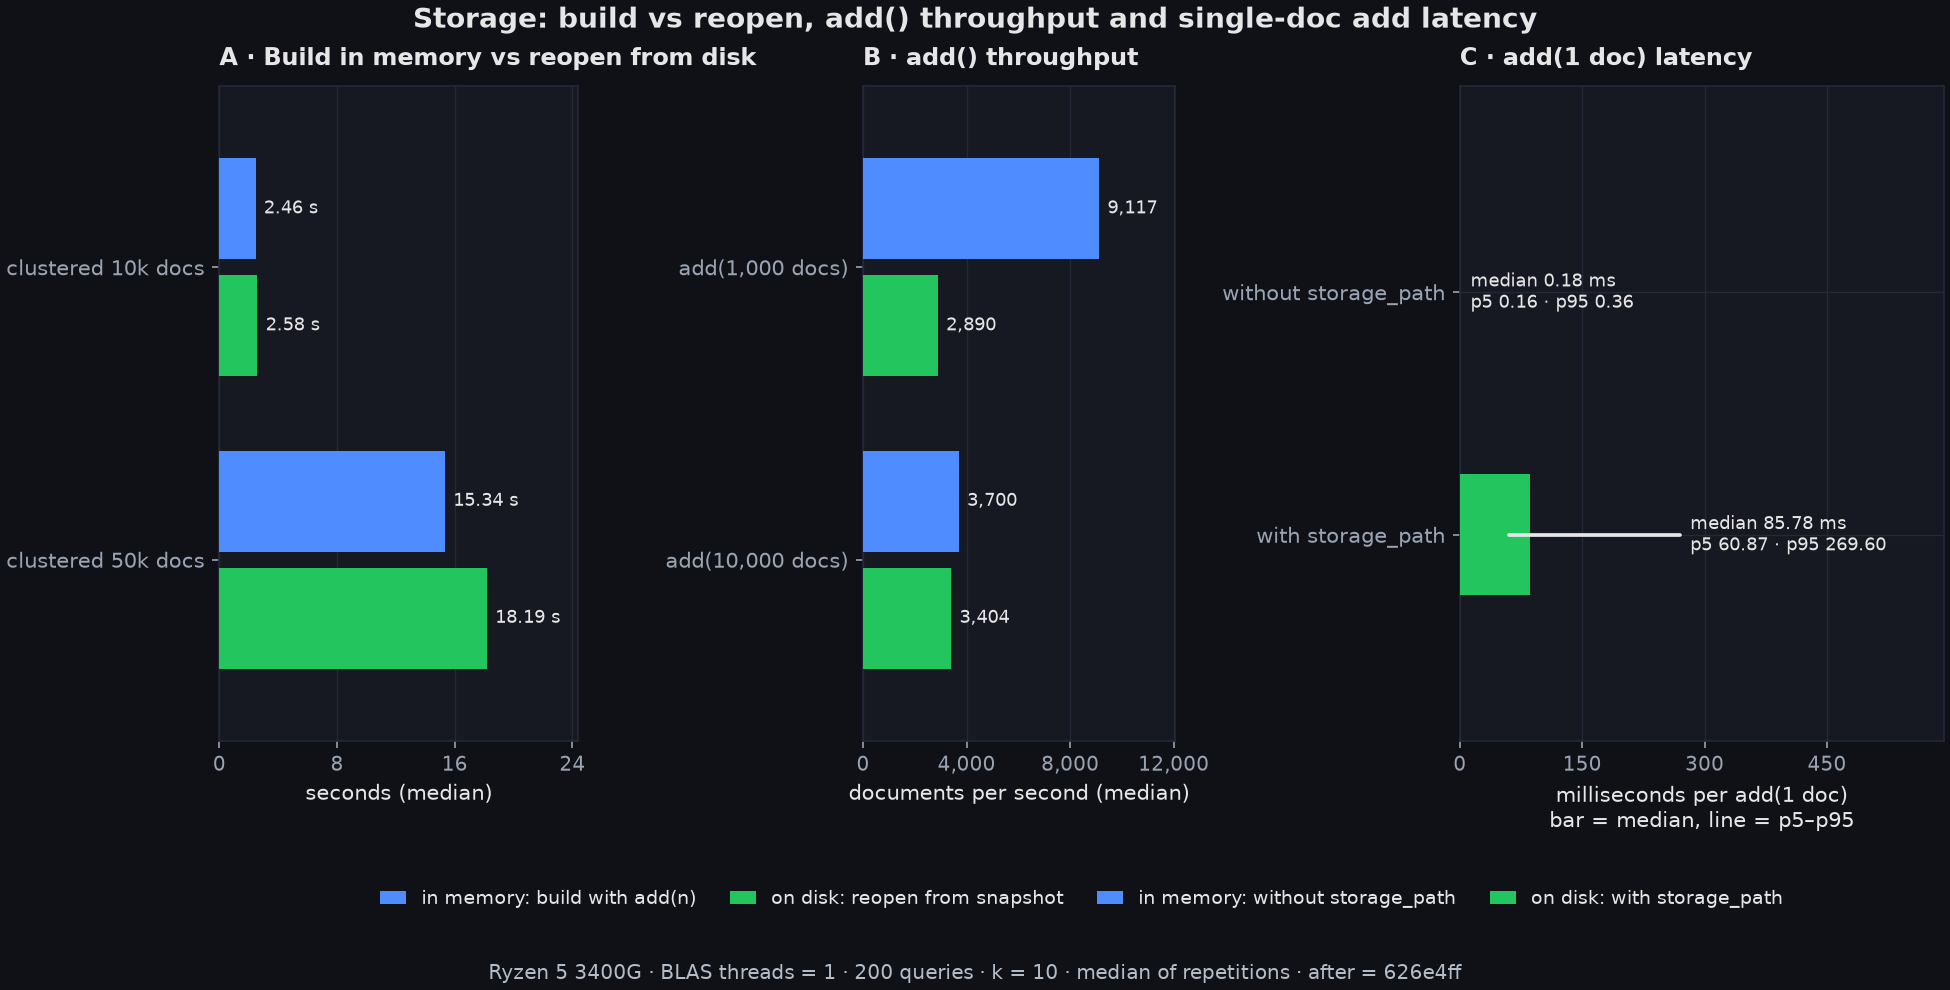
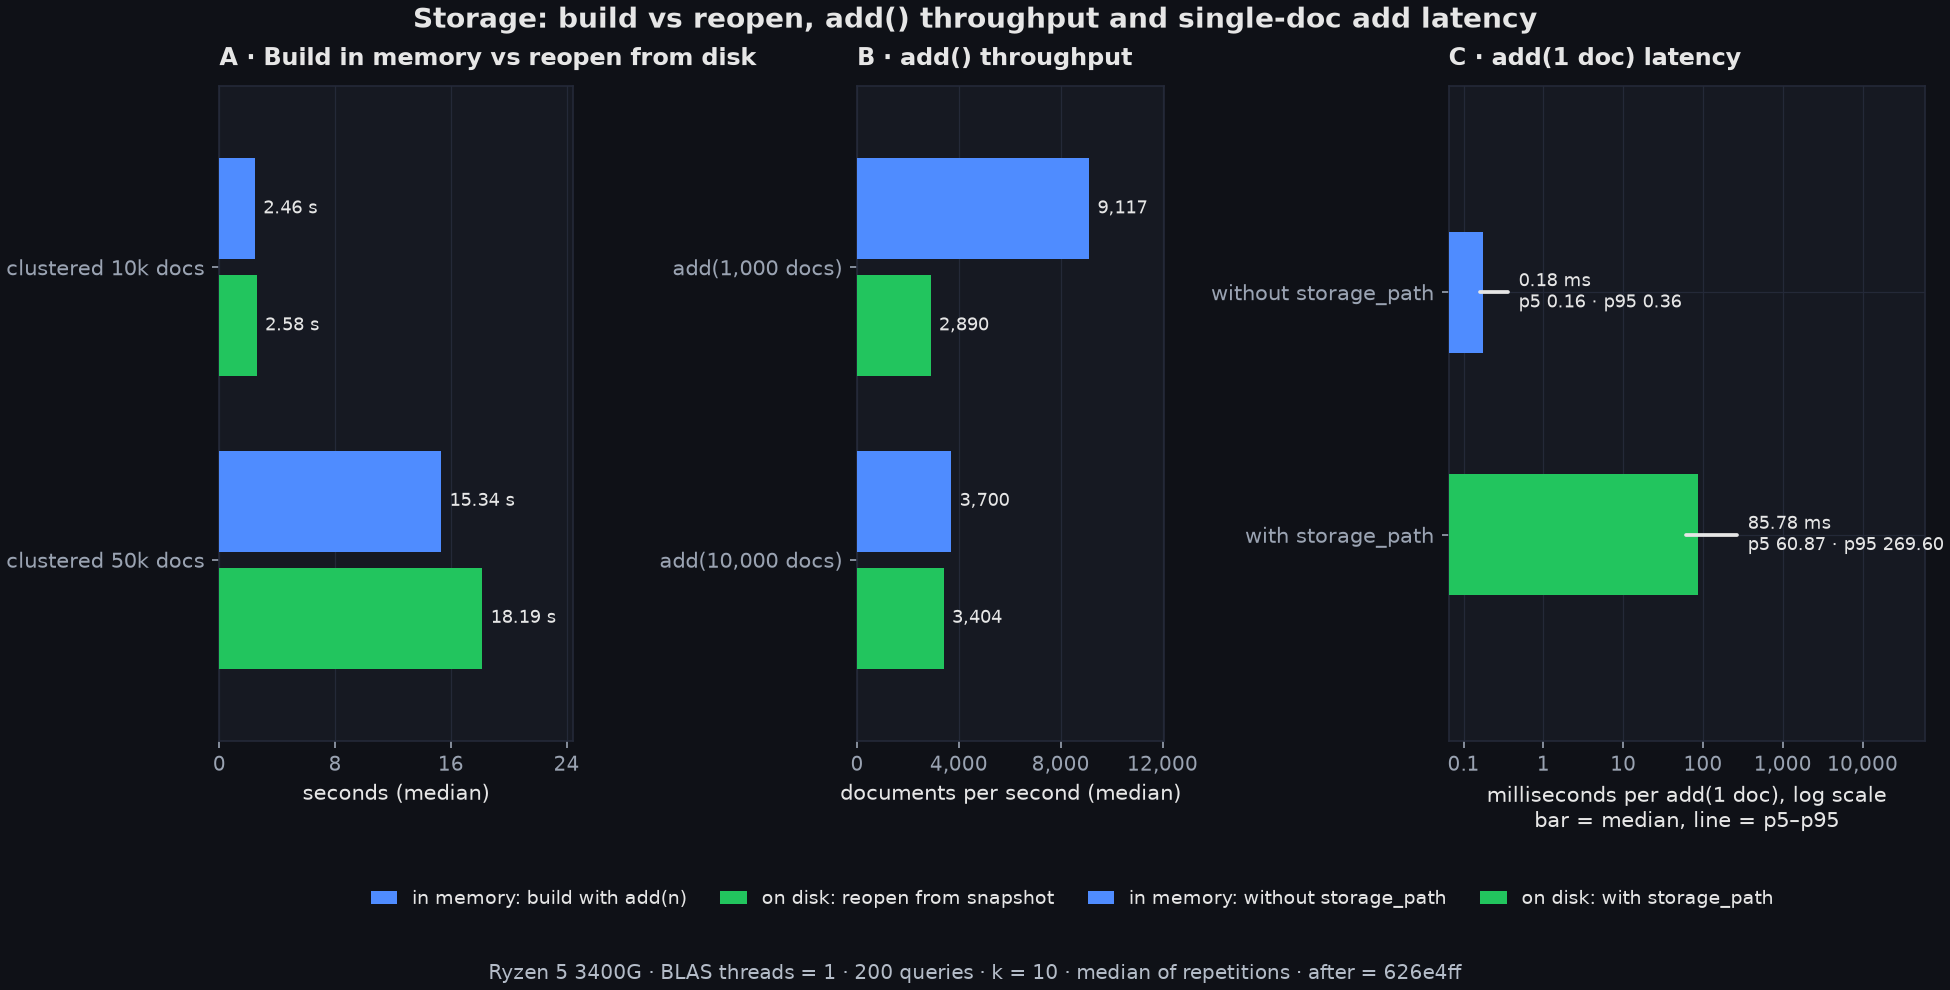
bench(figuras): panel C de bench-storage en escala log, verificacion visual de las 5 figuras [cierre del pase]
En escala lineal la barra de add(1 doc) sin storage_path (0.18 ms) quedaba
invisible frente a 86 ms, y su entrada de leyenda no tenia marca visible. El
panel C pasa a eje log con ticks 0.1 ... 10,000 (comas en los miles) y la
anotacion se acorta ('85.78 ms'; la etiqueta del eje ya dice que la barra es la
mediana). Las otras 4 figuras son byte-identicas (sha256 verificado) y el
generador sigue pasando su checker (0 colisiones, 0 textos fuera, determinista,
sin literales de cifras).

Verificacion visual (vision) de las 5 figuras: todos los textos y valores se
pueden transcribir sin ambiguedad y coinciden con los JSON.

diff --git a/scripts/make_readme_figures.py b/scripts/make_readme_figures.py
@@ -856,16 +856,25 @@ def fig_storage(D):
         color = PERSISTENTE_C if f.get("con_storage_path") else MEMORIA_C
         ax_c.barh(i, med, 0.5, color=color, zorder=3)
         ax_c.plot([p5, p95], [i, i], color=TEXTO, linewidth=1.8, solid_capstyle="round", zorder=4)
-        textos.append(ax_c.annotate(f"median {med:,.2f} ms\np5 {p5:,.2f} · p95 {p95:,.2f}",
+        # "median" ya lo dice la etiqueta del eje: el texto corto deja aire hasta el borde
+        textos.append(ax_c.annotate(f"{med:,.2f} ms\np5 {p5:,.2f} · p95 {p95:,.2f}",
                                     (max(med, p95), i), xytext=(5, 0), textcoords="offset points",
                                     ha="left", va="center", fontsize=T_VALOR, color=TEXTO))
     ax_c.set_yticks(range(len(unit)))
     ax_c.set_yticklabels(etiquetas_c)
     ax_c.set_ylim(len(unit) - 0.5 + 0.35, -0.5 - 0.35)
-    ax_c.set_xlim(0, max(num(f, "p95") for f in unit) * 2.2)
+    # Escala log: sin storage el add cuesta ~0.2 ms y con storage ~86 ms; en escala lineal
+    # la primera barra quedaba invisible (sub-pixel) y su entrada de leyenda sin marca.
+    ax_c.set_xscale("log")
+    ax_c.set_xlim(min(num(f, "p5") for f in unit) * 0.4, max(num(f, "p95") for f in unit) * 2.2)
     ajustar_xlim(ax_c, textos)
-    ticks_amables(ax_c)
-    ax_c.set_xlabel("milliseconds per add(1 doc)\nbar = median, line = p5–p95")
+    _lo, _hi = sorted(ax_c.xaxis.get_view_interval())
+    _ticks = [10 ** e for e in range(math.floor(math.log10(_lo)), math.ceil(math.log10(_hi)) + 1)
+              if _lo <= 10 ** e <= _hi]
+    ax_c.xaxis.set_major_locator(FixedLocator(_ticks))
+    ax_c.xaxis.set_minor_locator(NullLocator())
+    ax_c.xaxis.set_major_formatter(FuncFormatter(lambda v, _: f"{v:,.0f}" if v >= MIL else f"{v:g}"))
+    ax_c.set_xlabel("milliseconds per add(1 doc), log scale\nbar = median, line = p5–p95")
     ax_c.set_title("C · add(1 doc) latency")
     # una sola leyenda a lo ancho (azul = en memoria, verde = en disco): dos leyendas por
     # columna le quitaban ancho al panel C en el constrained layout
@@ -1125,7 +1134,8 @@ def leyenda_index(H):
 def leyenda_storage(H):
     t = ("A — building the index in memory (`add(n)`) versus reopening it from a snapshot (`save(path)` + "
          "`SimpleVectorDB(storage_path=path)`); B — `add()` throughput with and without `storage_path`; C — latency "
-         "of `add(1 doc)` with and without `storage_path` (bar = median, line = p5–p95). ")
+         "of `add(1 doc)` with and without `storage_path` (bar = median, line = p5–p95; log scale, because the "
+         "two medians are 0.18 ms and 86 ms apart). ")
     if H["reopen_build"]:
         t += ("Reopening costs " + ", ".join(f"{r:.2f}× the in-memory build at {n // MIL}k docs" for n, r in H["reopen_build"])
               + ". ")

diff --git a/docs/BENCHMARKS.md b/docs/BENCHMARKS.md
@@ -85,7 +85,7 @@ Sources: `benchmarks/results/bench_index_types.json` (sha256 `d3fd93cc526ac772e4
 
 ![Storage: build vs reopen, add() throughput with and without storage_path, add(1 doc) latency](bench-storage.png)
 
-A — building the index in memory (`add(n)`) versus reopening it from a snapshot (`save(path)` + `SimpleVectorDB(storage_path=path)`); B — `add()` throughput with and without `storage_path`; C — latency of `add(1 doc)` with and without `storage_path` (bar = median, line = p5–p95). Reopening costs 1.05× the in-memory build at 10k docs, 1.19× the in-memory build at 50k docs. A single-doc add takes a median of 0.18 ms without `storage_path` and 85.78 ms with it (p95 269.60 ms). Repetitions per row in this table are few (build: 1; reopen: 3; `add()`: 2; `add(1 doc)`: 100): read these as order-of-magnitude figures, not as precise medians. What it does not show: a before/after comparison (there is no before storage table), concurrent writers, or other storage backends.
+A — building the index in memory (`add(n)`) versus reopening it from a snapshot (`save(path)` + `SimpleVectorDB(storage_path=path)`); B — `add()` throughput with and without `storage_path`; C — latency of `add(1 doc)` with and without `storage_path` (bar = median, line = p5–p95; log scale, because the two medians are 0.18 ms and 86 ms apart). Reopening costs 1.05× the in-memory build at 10k docs, 1.19× the in-memory build at 50k docs. A single-doc add takes a median of 0.18 ms without `storage_path` and 85.78 ms with it (p95 269.60 ms). Repetitions per row in this table are few (build: 1; reopen: 3; `add()`: 2; `add(1 doc)`: 100): read these as order-of-magnitude figures, not as precise medians. What it does not show: a before/after comparison (there is no before storage table), concurrent writers, or other storage backends.
 
[1 lines of base64/hex data omitted]
 
